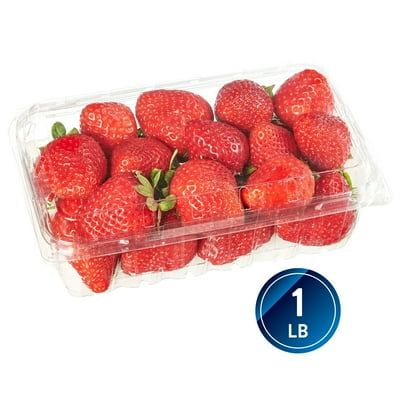
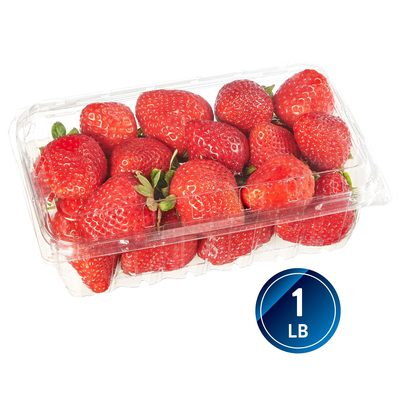
SL-20261105-THU: rebuild for Walmart #4111 store walk
Switch Thursday list to Walmart Supercenter #4111 with confirmed
prices, aisles and photos. Add A39 snacks, GF soy, Seventh
Generation detergent (packs, liquid alt pending), and pad choice
tiles. Remove stale H-E-B lines and MISSING store/time banner.

diff --git a/shopping/20261105-THU.html b/shopping/20261105-THU.html
@@ -1,7 +1,7 @@
 <!DOCTYPE html>
 <html lang="en"><head><meta charset="utf-8"><meta name="viewport" content="width=device-width,initial-scale=1,viewport-fit=cover">
 <meta name="theme-color" content="#1f3a5f">
-<title>SL-20261105-THU: Shopping, Thu 11/5: ground beef for Sat burgers (+ optional granola)</title>
+<title>SL-20261105-THU: Shopping, Thu 11/5: Walmart #4111 (ground beef, A39 snacks, detergent, pads)</title>
 <style>
 *{box-sizing:border-box}
 body{font-family:-apple-system,BlinkMacSystemFont,"Segoe UI",Roboto,Arial,sans-serif;margin:0;background:#f4f5f7;color:#222;padding-bottom:84px}
@@ -50,35 +50,130 @@ body.hidedone .item.done{display:none}body.hidedone section.alldone{display:none
 #warn{display:none;background:#fdecea;color:#a33;padding:8px 12px;border-radius:8px;margin:8px 4px;font-size:.88em}
 #saved{font-size:.8em;color:#2e7d32;min-height:1em;margin-top:6px}
 footer{font-size:.8em;color:#666;padding:16px;max-width:760px;margin:auto}
+
+.a39{display:inline-block;background:#fce4ec;color:#880e4f;border:1px solid #f48fb1;border-radius:6px;padding:0 6px;font-size:.78em;font-weight:600}
+.choices{display:grid;grid-template-columns:repeat(auto-fill,minmax(140px,1fr));gap:8px;margin-top:8px}
+.choice{background:#fafafa;border:1px solid #dde;border-radius:10px;padding:8px;text-align:center;font-size:.78em;line-height:1.3}
+.choice img{display:block;width:72px;height:72px;object-fit:contain;margin:0 auto 6px;background:#fff;border-radius:6px}
+.choice .cn{font-weight:600;color:#222;margin-bottom:2px}
+.choice .cp{color:#445}
+.choice a{font-size:.85em}
+.cl{list-style:none;margin:0;padding:0}
+.cl li{padding:6px 0;border-bottom:1px solid #eee;font-size:.92em;display:flex;gap:8px;align-items:flex-start}
+.cl li:last-child{border-bottom:0}
+.cl .ok{color:#2e7d32;font-weight:700;min-width:1.4em}.cl .pend{color:#a33;font-weight:700;min-width:1.4em}
+
 </style></head><body>
 <div class="donebanner" style="display:block;background:#d50000;color:#fff;font-weight:900;font-size:1.45em;line-height:1.3;text-align:center;border:6px solid #7f0000;border-radius:10px;padding:16px 12px;margin:10px;text-transform:uppercase;font-family:Arial,sans-serif">WHEN DONE: hit SUBMIT ("Send notes to Meal Planner") at the bottom, then email the bot inbox carterfambot@gmail.com and ATTACH A PHOTO OF THE RECEIPT.</div>
-<header><h1>Shopping, Thu 11/5: ground beef for Sat burgers (+ optional granola)</h1><div class="w">Store and time: MISSING (Carter to confirm; H-E-B #736 assumed for price).</div>
-<div class="w" style="margin-top:4px;opacity:.85;font-size:.85em">Every price is an ESTIMATE (est.) from past receipts, the price book or typical shelf prices; none was rechecked at H-E-B #736 today. Each line names its source. Before tax.</div>
-<div class="tot"><div>Meal: <b>$15.93</b></div><div>Staples: <b>$0.00</b></div><div>Flex: <b>$0.00</b></div><div>SL total: <b>$15.93</b> (2 items, incl. optional granola $3.48)</div></div><div class="w" style="margin-top:8px;font-size:.85em"><a href="#tools">Notes and send</a></div></header>
+<header><h1>Shopping, Thu 11/5: Walmart #4111 (ground beef, A39 snacks, detergent, pads)</h1><div class="w">Walmart Supercenter #4111, 26824 FM 1093 Rd, Richmond TX 77406. Thu 11/5, 11:30 AM CT.</div>
+<div class="w" style="margin-top:4px;opacity:.85;font-size:.85em">Prices and aisles marked "confirmed 11/5 walmart.com #4111" were checked live on walmart.com for store #4111 today. Bananas count and pads placeholder are ESTIMATES (est.). Before tax.</div>
+<div class="tot"><div>Meal: <b>$37.12</b></div><div>Staples: <b>$15.23</b></div><div>Flex: <b>$0.00</b></div><div>SL total: <b>$52.35</b> (10 items, incl. optional granola $2.67)</div></div><div class="w" style="margin-top:8px;font-size:.85em"><a href="#tools">Notes and send</a> · <a href="#checklist">Checklist</a></div></header>
 <main>
 <div id="warn">This browser is not letting the page save (private browsing?). Checks and notes will be lost when you close it.</div>
-<p class="sub"><span class="est">est.</span> estimated (plan price, not checked online for this store; trays ring up by weight).<br><span class="bud b-meal">meal</span> <span class="bud b-staples">staples</span> <span class="bud b-flex">flex</span> budget bucket for each line.</p><p class="sub">Tap the box when an item is in the cart. Checks and notes save on this phone and browser only. Use "Send notes to Meal Planner" at the bottom when you are done.</p><p class="sub">Nothing to buy Thursday. Carter moved everything for Tue 11/3 to Sat 11/7 to the Mon 11/2 H-E-B #736 list: shopping/20261102-MON.html.</p><p class="sub">Thu dinner (honey-garlic chicken) uses the 3 chicken breasts frozen Monday night (thaw Wed night).</p>
-
-<section class="grp"><h2><span class="ac">Meat Market + Aisle 6</span><span class="hint">ground beef: aisle not confirmed; granola: Aisle 6 B19</span><span class="n">2 items</span></h2><ul class="aisle"><li class="item" data-id="gbeef">
-<label class="chk"><input type="checkbox" aria-label="In cart: Ground beef 80/20, about 2.5 lb (Sat 11/7 burgers; fridge, no freezing needed)"></label>
-<div class="pic"><img alt="Ground beef 80/20, about 2.5 lb (Sat 11/7 burgers; fridge, no freezing needed)" data-srcs="../images/heb/635319.jpg"><div class="nopic"><span class="cam" aria-hidden="true"></span>No photo yet</div></div>
-<div class="body"><div class="t">Ground beef 80/20, about 2.5 lb (Sat 11/7 burgers; fridge, no freezing needed)</div>
-<div class="m"><span class="qty">Buy 1</span> <span class="bud b-meal">meal</span> <span class="ax">Aisle not confirmed</span></div>
-<div class="m"><span class="est">est.</span> $12.45 each &middot; line <b>$12.45</b> &middot; est. H-E-B #736 receipt 10/15 80/20 ground beef $4.98/lb x 2.5 lb (rings up by weight). Photo: H-E-B 80% lean ground chuck, heb.com 635319 &middot; moved here from Mon 11/2 list (Carter 11/2 3:28 PM CT: "so I don't have to freeze")</div>
-
+<p class="sub"><span class="est">est.</span> estimated (count or placeholder until confirmed).<br><span class="onl">confirmed 11/5 walmart.com #4111</span> looked up today for this store.<br><span class="bud b-meal">meal</span> <span class="bud b-staples">staples</span> <span class="bud b-flex">flex</span> budget bucket. <span class="a39">From A39</span> snack request (pears, bananas, strawberries, oranges, cheese sticks).</p>
+<p class="sub">Tap the box when an item is in the cart. Checks and notes save on this phone and browser only. Use "Send notes to Meal Planner" at the bottom when you are done.</p>
+<p class="sub">Store walk: Produce (AP3 → AP5 → AP8), grocery A13 → A18 → A28 → A31, Health G10 (pads), then household cleaning near J15 (detergent aisle not confirmed — grouped with dish soap).</p>
+<p class="sub">Sat 11/7 burgers need the ground chuck (fridge). Thu dinner (honey-garlic chicken) uses the chicken breasts already bought; move one pack to the fridge tonight if not already. GF: green-label Kikkoman GF soy for G11 and A39. No green chiles. No grilled cheese.</p>
+<p class="sub">Detergent: Seventh Generation dishwasher packs listed; if Carter meant hand dish soap, swap to the Free &amp; Clear liquid 19 oz ($3.53, J15) shown under that line. Pads: A39 picks at the store (choice tiles under G10).</p>
+<section class="grp"><h2><span class="ac">AP3 Produce</span><span class="hint">strawberries</span><span class="n">1 item</span></h2><ul class="aisle"><li class="item" data-id="straw">
+<label class="chk"><input type="checkbox" aria-label="In cart: Fresh Strawberries 1 lb"></label>
+<div class="pic has"><img alt="Fresh Strawberries 1 lb" src="../images/walmart/44391605.jpg" loading="lazy" width="80" height="80" data-srcs="../images/walmart/44391605.jpg"><a class="nopic" href="https://www.walmart.com/ip/44391605" target="_blank" rel="noopener"><span class="cam" aria-hidden="true"></span>No photo yet<br><u>View item</u></a></div>
+<div class="body"><div class="t">Fresh Strawberries 1 lb</div>
+<div class="m"><span class="qty">Buy 1</span> <span class="bud b-meal">meal</span> <span class="a39">From A39</span> <span class="ax">Aisle AP3 (confirmed 11/5)</span></div>
+<div class="m"><span class="onl">confirmed 11/5 walmart.com #4111</span> $2.37 each &middot; line <b>$2.37</b> &middot; walmart.com #4111 44391605</div>
+<div class="m lnk"><a href="https://www.walmart.com/ip/44391605" target="_blank" rel="noopener">walmart.com/ip/44391605</a></div>
 <details class="inote"><summary>Add note</summary><textarea rows="2" placeholder="e.g. got 18 ct instead of 60, or skipped, 3 at home"></textarea></details>
-</div></li><li class="item" data-id="granola">
-<label class="chk"><input type="checkbox" aria-label="In cart: OPTIONAL, IF NEEDED: H-E-B Classic granola, 14 oz (enough on hand until next week, Carter 11/2)"></label>
-<div class="pic"><img alt="OPTIONAL, IF NEEDED: H-E-B Classic granola, 14 oz (enough on hand until next week, Carter 11/2)" data-srcs="../images/heb/1194845.jpg"><div class="nopic"><span class="cam" aria-hidden="true"></span>No photo yet</div></div>
-<div class="body"><div class="t">OPTIONAL, IF NEEDED: H-E-B Classic granola, 14 oz (enough on hand until next week, Carter 11/2)</div>
-<div class="m"><span class="qty">Optional, if needed</span> <span class="bud b-meal">meal</span> <span class="ax">Aisle 6 B19 (confirmed 11/2)</span></div>
-<div class="m"><span class="onl">confirmed 11/2 heb.com #736</span> $3.48 each &middot; line <b>$3.48</b> &middot; heb.com 1194845</div>
+</div></li></ul></section><section class="grp"><h2><span class="ac">AP5 Produce</span><span class="hint">pears + oranges</span><span class="n">2 items</span></h2><ul class="aisle"><li class="item" data-id="pears">
+<label class="chk"><input type="checkbox" aria-label="In cart: Fresh Bartlett Pears 3 lb bag"></label>
+<div class="pic has"><img alt="Fresh Bartlett Pears 3 lb bag" src="../images/walmart/929297252.jpg" loading="lazy" width="80" height="80" data-srcs="../images/walmart/929297252.jpg"><a class="nopic" href="https://www.walmart.com/ip/929297252" target="_blank" rel="noopener"><span class="cam" aria-hidden="true"></span>No photo yet<br><u>View item</u></a></div>
+<div class="body"><div class="t">Fresh Bartlett Pears 3 lb bag</div>
+<div class="m"><span class="qty">Buy 1</span> <span class="bud b-meal">meal</span> <span class="a39">From A39</span> <span class="ax">Aisle AP5 (confirmed 11/5)</span></div>
+<div class="m"><span class="onl">confirmed 11/5 walmart.com #4111</span> $5.33 each &middot; line <b>$5.33</b> &middot; walmart.com #4111 929297252</div>
+<div class="m lnk"><a href="https://www.walmart.com/ip/929297252" target="_blank" rel="noopener">walmart.com/ip/929297252</a></div>
+<details class="inote"><summary>Add note</summary><textarea rows="2" placeholder="e.g. got 18 ct instead of 60, or skipped, 3 at home"></textarea></details>
+</div></li><li class="item" data-id="oranges">
+<label class="chk"><input type="checkbox" aria-label="In cart: Navel oranges, 2"></label>
+<div class="pic has"><img alt="Navel oranges, 2" src="../images/walmart/162577028.jpg" loading="lazy" width="80" height="80" data-srcs="../images/walmart/162577028.jpg"><a class="nopic" href="https://www.walmart.com/ip/162577028" target="_blank" rel="noopener"><span class="cam" aria-hidden="true"></span>No photo yet<br><u>View item</u></a></div>
+<div class="body"><div class="t">Navel oranges, 2</div>
+<div class="m"><span class="qty">Buy 2</span> <span class="bud b-meal">meal</span> <span class="a39">From A39</span> <span class="ax">Aisle AP5 (confirmed 11/5)</span></div>
+<div class="m"><span class="onl">confirmed 11/5 walmart.com #4111</span> $0.88 each &middot; line <b>$1.76</b> &middot; walmart.com #4111 162577028 ($0.88 each)</div>
+<div class="m lnk"><a href="https://www.walmart.com/ip/162577028" target="_blank" rel="noopener">walmart.com/ip/162577028</a></div>
+<details class="inote"><summary>Add note</summary><textarea rows="2" placeholder="e.g. got 18 ct instead of 60, or skipped, 3 at home"></textarea></details>
+</div></li></ul></section><section class="grp"><h2><span class="ac">AP8 Produce</span><span class="hint">bananas</span><span class="n">1 item</span></h2><ul class="aisle"><li class="item" data-id="bananas">
+<label class="chk"><input type="checkbox" aria-label="In cart: Bananas, about 6"></label>
+<div class="pic has"><img alt="Bananas, about 6" src="../images/walmart/44390948.jpg" loading="lazy" width="80" height="80" data-srcs="../images/walmart/44390948.jpg"><a class="nopic" href="https://www.walmart.com/ip/44390948" target="_blank" rel="noopener"><span class="cam" aria-hidden="true"></span>No photo yet<br><u>View item</u></a></div>
+<div class="body"><div class="t">Bananas, about 6</div>
+<div class="m"><span class="qty">Buy ~6 (count est.)</span> <span class="bud b-meal">meal</span> <span class="a39">From A39</span> <span class="ax">Aisle AP8 (confirmed 11/5)</span></div>
+<div class="m"><span class="est">est.</span> $0.19 each &middot; line <b>$1.14</b> &middot; walmart.com #4111 44390948 ($0.19 each); count is est.</div>
+<div class="m lnk"><a href="https://www.walmart.com/ip/44390948" target="_blank" rel="noopener">walmart.com/ip/44390948</a></div>
+<details class="inote"><summary>Add note</summary><textarea rows="2" placeholder="e.g. got 18 ct instead of 60, or skipped, 3 at home"></textarea></details>
+</div></li></ul></section><section class="grp"><h2><span class="ac">Aisle A13</span><span class="hint">soy sauce</span><span class="n">1 item</span></h2><ul class="aisle"><li class="item" data-id="soy">
+<label class="chk"><input type="checkbox" aria-label="In cart: Kikkoman Gluten-Free Soy Sauce 10 oz (green-label GF bottle)"></label>
+<div class="pic has"><img alt="Kikkoman Gluten-Free Soy Sauce 10 oz (green-label GF bottle)" src="../images/walmart/34276996.jpg" loading="lazy" width="80" height="80" data-srcs="../images/walmart/34276996.jpg"><a class="nopic" href="https://www.walmart.com/ip/34276996" target="_blank" rel="noopener"><span class="cam" aria-hidden="true"></span>No photo yet<br><u>View item</u></a></div>
+<div class="body"><div class="t">Kikkoman Gluten-Free Soy Sauce 10 oz (green-label GF bottle)</div>
+<div class="m"><span class="qty">Buy 1</span> <span class="bud b-meal">meal</span> <span class="ax">Aisle A13 (confirmed 11/5)</span></div>
+<div class="m"><span class="onl">confirmed 11/5 walmart.com #4111</span> $4.08 each &middot; line <b>$4.08</b> &middot; walmart.com #4111 34276996. Get the green-label GF bottle, NOT Great Value (not labeled GF).</div>
+<div class="look">GF for G11 and A39. Do not buy Great Value soy.</div><div class="m lnk"><a href="https://www.walmart.com/ip/34276996" target="_blank" rel="noopener">walmart.com/ip/34276996</a></div>
+<details class="inote"><summary>Add note</summary><textarea rows="2" placeholder="e.g. got 18 ct instead of 60, or skipped, 3 at home"></textarea></details>
+</div></li></ul></section><section class="grp"><h2><span class="ac">Aisle A18</span><span class="hint">granola (optional)</span><span class="n">1 item</span></h2><ul class="aisle"><li class="item" data-id="granola">
+<label class="chk"><input type="checkbox" aria-label="In cart: OPTIONAL, IF NEEDED: Great Value Oats &amp; Honey Granola 11 oz"></label>
+<div class="pic has"><img alt="OPTIONAL, IF NEEDED: Great Value Oats &amp; Honey Granola 11 oz" src="../images/walmart/202344615.jpg" loading="lazy" width="80" height="80" data-srcs="../images/walmart/202344615.jpg"><a class="nopic" href="https://www.walmart.com/ip/202344615" target="_blank" rel="noopener"><span class="cam" aria-hidden="true"></span>No photo yet<br><u>View item</u></a></div>
+<div class="body"><div class="t">OPTIONAL, IF NEEDED: Great Value Oats &amp; Honey Granola 11 oz</div>
+<div class="m"><span class="qty">Optional, if needed</span> <span class="bud b-meal">meal</span> <span class="ax">Aisle A18 (confirmed 11/5)</span></div>
+<div class="m"><span class="onl">confirmed 11/5 walmart.com #4111</span> $2.67 each &middot; line <b>$2.67</b> &middot; walmart.com #4111 202344615. Only if needed (enough on hand until next week).</div>
+<div class="m lnk"><a href="https://www.walmart.com/ip/202344615" target="_blank" rel="noopener">walmart.com/ip/202344615</a></div>
+<details class="inote"><summary>Add note</summary><textarea rows="2" placeholder="e.g. got 18 ct instead of 60, or skipped, 3 at home"></textarea></details>
+</div></li></ul></section><section class="grp"><h2><span class="ac">Aisle A28</span><span class="hint">cheese sticks</span><span class="n">1 item</span></h2><ul class="aisle"><li class="item" data-id="cheese">
+<label class="chk"><input type="checkbox" aria-label="In cart: Great Value Mozzarella String Cheese, 24 ct (24 oz)"></label>
+<div class="pic has"><img alt="Great Value Mozzarella String Cheese, 24 ct (24 oz)" src="../images/walmart/357809532.jpg" loading="lazy" width="80" height="80" data-srcs="../images/walmart/357809532.jpg"><a class="nopic" href="https://www.walmart.com/ip/357809532" target="_blank" rel="noopener"><span class="cam" aria-hidden="true"></span>No photo yet<br><u>View item</u></a></div>
+<div class="body"><div class="t">Great Value Mozzarella String Cheese, 24 ct (24 oz)</div>
+<div class="m"><span class="qty">Buy 1</span> <span class="bud b-meal">meal</span> <span class="a39">From A39</span> <span class="ax">Aisle A28 (confirmed 11/5)</span></div>
+<div class="m"><span class="onl">confirmed 11/5 walmart.com #4111</span> $6.34 each &middot; line <b>$6.34</b> &middot; walmart.com #4111 357809532</div>
+<div class="m lnk"><a href="https://www.walmart.com/ip/357809532" target="_blank" rel="noopener">walmart.com/ip/357809532</a></div>
+<details class="inote"><summary>Add note</summary><textarea rows="2" placeholder="e.g. got 18 ct instead of 60, or skipped, 3 at home"></textarea></details>
+</div></li></ul></section><section class="grp"><h2><span class="ac">Aisle A31</span><span class="hint">ground beef</span><span class="n">1 item</span></h2><ul class="aisle"><li class="item" data-id="beef">
+<label class="chk"><input type="checkbox" aria-label="In cart: 80% Lean / 20% Fat Ground Beef Chuck, 2.25 lb tray (Sat 11/7 burgers)"></label>
+<div class="pic has"><img alt="80% Lean / 20% Fat Ground Beef Chuck, 2.25 lb tray (Sat 11/7 burgers)" src="../images/walmart/959024059.jpg" loading="lazy" width="80" height="80" data-srcs="../images/walmart/959024059.jpg"><a class="nopic" href="https://www.walmart.com/ip/959024059" target="_blank" rel="noopener"><span class="cam" aria-hidden="true"></span>No photo yet<br><u>View item</u></a></div>
+<div class="body"><div class="t">80% Lean / 20% Fat Ground Beef Chuck, 2.25 lb tray (Sat 11/7 burgers)</div>
+<div class="m"><span class="qty">Buy 1</span> <span class="bud b-meal">meal</span> <span class="ax">Aisle A31 (confirmed 11/5)</span></div>
+<div class="m"><span class="onl">confirmed 11/5 walmart.com #4111</span> <span class="rb">Rollback</span> $13.43 each &middot; line <b>$13.43</b> &middot; walmart.com #4111 959024059 Rollback. Carter's plan was ~2.5 lb; a 3 lb roll is $16.43 (15136794) if you want more.</div>
+<div class="look">For Saturday burgers. Fridge, no freezing needed.</div><div class="m lnk"><a href="https://www.walmart.com/ip/959024059" target="_blank" rel="noopener">walmart.com/ip/959024059</a></div>
+<details class="inote"><summary>Add note</summary><textarea rows="2" placeholder="e.g. got 18 ct instead of 60, or skipped, 3 at home"></textarea></details>
+</div></li></ul></section><section class="grp"><h2><span class="ac">Aisle G10</span><span class="hint">feminine pads (A39 choice)</span><span class="n">1 item</span></h2><ul class="aisle"><li class="item" data-id="pads">
+<label class="chk"><input type="checkbox" aria-label="In cart: Feminine pads, A39&#x27;s choice (she uses a specific kind — pick one below)"></label>
+<div class="pic has"><img alt="Feminine pads, A39&#x27;s choice (she uses a specific kind — pick one below)" src="../images/walmart/2304198.jpg" loading="lazy" width="80" height="80" data-srcs="../images/walmart/2304198.jpg"><a class="nopic" href="https://www.walmart.com/ip/2304198" target="_blank" rel="noopener"><span class="cam" aria-hidden="true"></span>No photo yet<br><u>View item</u></a></div>
+<div class="body"><div class="t">Feminine pads, A39&#x27;s choice (she uses a specific kind — pick one below)</div>
+<div class="m"><span class="qty">Buy 1 (A39 picks)</span> <span class="bud b-staples">staples</span> <span class="ax">Aisle G10 (confirmed 11/5)</span></div>
+<div class="m"><span class="est">est.</span> $7.24 each &middot; line <b>$7.24</b> &middot; placeholder est. $7.24 (Always Ultra Thin Size 2 Long Super 40 ct). A39 uses a specific kind; choice tiles below. Ask her or text if unsure.</div>
+<div class="look">A39's choice. Total uses $7.24 est. until she picks.</div><div class="choices"><div class="choice"><img src="../images/walmart/2304198.jpg" alt="Always Ultra Thin, no wings, Size 2 Long Super, 40 ct" width="72" height="72" loading="lazy"><div class="cn">Always Ultra Thin, no wings, Size 2 Long Super, 40 ct</div><div class="cp">$7.24</div><a href="https://www.walmart.com/ip/2304198" target="_blank" rel="noopener">walmart.com/ip/2304198</a></div><div class="choice"><img src="../images/walmart/17909353050.jpg" alt="Always Ultra Thin, wings, Size 5 Overnight, 60 ct" width="72" height="72" loading="lazy"><div class="cn">Always Ultra Thin, wings, Size 5 Overnight, 60 ct</div><div class="cp">$14.47</div><a href="https://www.walmart.com/ip/17909353050" target="_blank" rel="noopener">walmart.com/ip/17909353050</a></div><div class="choice"><img src="../images/walmart/43826376.jpg" alt="Always Maxi, wings, Size 5, 36 ct" width="72" height="72" loading="lazy"><div class="cn">Always Maxi, wings, Size 5, 36 ct</div><div class="cp">$10.97</div><a href="https://www.walmart.com/ip/43826376" target="_blank" rel="noopener">walmart.com/ip/43826376</a></div><div class="choice"><img src="../images/walmart/329282492.jpg" alt="Equate Maxi, wings, Long Super, 42 ct" width="72" height="72" loading="lazy"><div class="cn">Equate Maxi, wings, Long Super, 42 ct</div><div class="cp">$5.38</div><a href="https://www.walmart.com/ip/329282492" target="_blank" rel="noopener">walmart.com/ip/329282492</a></div></div><div class="m lnk"><a href="https://www.walmart.com/ip/2304198" target="_blank" rel="noopener">walmart.com/ip/2304198</a></div>
+<details class="inote"><summary>Add note</summary><textarea rows="2" placeholder="e.g. got 18 ct instead of 60, or skipped, 3 at home"></textarea></details>
+</div></li></ul></section><section class="grp"><h2><span class="ac">Household cleaning (near J15)</span><span class="hint">detergent — aisle not confirmed</span><span class="n">1 item</span></h2><ul class="aisle"><li class="item" data-id="detergent">
+<label class="chk"><input type="checkbox" aria-label="In cart: Seventh Generation Dishwasher Detergent Packs, Free &amp; Clear, 20 ct"></label>
+<div class="pic has"><img alt="Seventh Generation Dishwasher Detergent Packs, Free &amp; Clear, 20 ct" src="../images/walmart/1303579342.jpg" loading="lazy" width="80" height="80" data-srcs="../images/walmart/1303579342.jpg"><a class="nopic" href="https://www.walmart.com/ip/1303579342" target="_blank" rel="noopener"><span class="cam" aria-hidden="true"></span>No photo yet<br><u>View item</u></a></div>
+<div class="body"><div class="t">Seventh Generation Dishwasher Detergent Packs, Free &amp; Clear, 20 ct</div>
+<div class="m"><span class="qty">Buy 1</span> <span class="bud b-staples">staples</span> <span class="ax">Aisle not confirmed (group with dish soap near J15)</span></div>
+<div class="m"><span class="onl">confirmed 11/5 walmart.com #4111</span> $7.99 each &middot; line <b>$7.99</b> &middot; walmart.com #4111 1303579342. Aisle not confirmed; grouped in household cleaning next to dish soap (J15).</div>
+<div class="look">Pending Carter: packs or liquid? Alternative: Seventh Generation Free &amp; Clear Dish Soap 19 oz, $3.53, J15, <a href="https://www.walmart.com/ip/131508635" target="_blank" rel="noopener">walmart.com/ip/131508635</a>. Photo of the liquid is saved next to this line.</div><div class="m lnk"><a href="https://www.walmart.com/ip/1303579342" target="_blank" rel="noopener">walmart.com/ip/1303579342</a><div class="m" style="margin-top:6px;display:flex;gap:10px;align-items:center"><img src="../images/walmart/131508635.jpg" alt="Seventh Generation Free &amp; Clear Dish Soap 19 oz" width="56" height="56" style="object-fit:contain;border-radius:6px;background:#fff;border:1px solid #dde" loading="lazy"><span class="ax">Alt photo: liquid dish soap 19 oz, $3.53, aisle J15 (confirmed).</span></div>
 <details class="inote"><summary>Add note</summary><textarea rows="2" placeholder="e.g. got 18 ct instead of 60, or skipped, 3 at home"></textarea></details>
 </div></li></ul></section>
-
+<section id="checklist" class="card"><h3>Quality checklist (item 13)</h3>
+<ul class="cl">
+<li><span class="ok">OK</span> Pictures: every line has a Walmart #4111 product photo in images/walmart/.</li>
+<li><span class="ok">OK</span> Correct store: Walmart Supercenter #4111, 26824 FM 1093 Rd, Richmond TX 77406.</li>
+<li><span class="ok">OK</span> Aisles: confirmed for this store, or marked "not confirmed" (detergent).</li>
+<li><span class="ok">OK</span> Prices: confirmed today or marked est. (bananas count, pads placeholder).</li>
+<li><span class="ok">OK</span> Totals: meals $37.12 + staples $15.23 = $52.35 (computed with code).</li>
+<li><span class="ok">OK</span> Banners: red SUBMIT / receipt banners at top and bottom.</li>
+<li><span class="ok">OK</span> Links: same invite URL shopping/20261105-THU.html (updated in place).</li>
+<li><span class="ok">OK</span> Menu rules: no pork; GF soy noted; A39 snacks tagged; no green chiles.</li>
+<li><span class="ok">OK</span> Store-library rule: every photo and price is Walmart #4111 (no H-E-B photos or prices).</li>
+<li><span class="pend">PENDING</span> Price book updated: Current/History push after this trip's receipt is filed.</li>
+<li><span class="pend">PENDING</span> Inventory updated: receipt items added, served meals subtracted (after the trip).</li>
+</ul>
+</section>
 <section id="tools" class="card"><h3>Shopping notes</h3>
-<div class="m">Anything for Meal Planner: swaps, out of stock, what is still at home. Item notes are under each item.</div>
-<textarea id="general" rows="4" placeholder="e.g. eggs: got 18 ct, 60 ct was out. Skipped cucumbers, 3 still at home." style="margin-top:8px"></textarea>
+<div class="m">Anything for Meal Planner: swaps, out of stock, what is still at home. Item notes are under each item. Tell us which pad A39 picked and whether detergent was packs or liquid.</div>
+<textarea id="general" rows="4" placeholder="e.g. got Always Size 5 Overnight; bought liquid dish soap instead of packs; skipped granola." style="margin-top:8px"></textarea>
 <div id="saved"></div>
 <div class="btns"><a id="mail" class="btn pri" href="mailto:carterfambot@gmail.com">Send notes to Meal Planner</a>
 <button id="copy" class="btn" type="button">Copy notes</button>
@@ -89,10 +184,10 @@ footer{font-size:.8em;color:#666;padding:16px;max-width:760px;margin:auto}
 
 </main>
 <div class="donebanner" style="display:block;background:#d50000;color:#fff;font-weight:900;font-size:1.45em;line-height:1.3;text-align:center;border:6px solid #7f0000;border-radius:10px;padding:16px 12px;margin:10px;text-transform:uppercase;font-family:Arial,sans-serif">WHEN DONE: hit SUBMIT ("Send notes to Meal Planner") at the bottom, then email the bot inbox carterfambot@gmail.com and ATTACH A PHOTO OF THE RECEIPT.</div>
-<footer>Thu 11/5 trip (ground beef moved from Mon 11/2). Pictures: 2 of 2 lines have a saved photo from the picture library (images/heb/ in the repo). A photo saved there as &lt;item number&gt;.jpg shows up automatically; until then the line shows a placeholder with the item link.</footer>
-<div id="bar"><div class="in"><div class="st"><span class="cnt" id="cnt">0 of 2 in cart</span><span class="sum" id="sum">$0.00 of $15.93</span></div>
+<footer>Thu 11/5 Walmart #4111 trip. Pictures: 10 of 10 lines (plus 4 pad choice tiles and 1 detergent-alt photo) saved under images/walmart/ in the repo. Store walk by aisle. Totals computed with code.</footer>
+<div id="bar"><div class="in"><div class="st"><span class="cnt" id="cnt">0 of 10 in cart</span><span class="sum" id="sum">$0.00 of $52.35</span></div>
 <button id="hide" class="btn" type="button">Hide in cart</button><a class="btn" href="#tools">Notes</a></div></div>
-<script id="listdata" type="application/json">{"list_id": "SL-20261105-THU", "title": "Shopping, Thu 11/5: ground beef for Sat burgers (+ optional granola)", "where": "MISSING (Carter to confirm)", "when": "Thu 11/5, time MISSING", "notes_email": "carterfambot@gmail.com", "email_subject": "Shopping notes SL-20261105-THU", "items": [{"id": "gbeef", "name": "Ground beef 80/20, about 2.5 lb (Sat 11/7 burgers; fridge, no freezing needed)", "qty": "Buy 1", "line": 12.45, "aisle_text": "Aisle not confirmed"}, {"id": "granola", "name": "OPTIONAL, IF NEEDED: H-E-B Classic granola, 14 oz (enough on hand until next week, Carter 11/2)", "qty": "Optional, if needed", "line": 3.48, "aisle_text": "Aisle 6 B19 (confirmed 11/2)"}]}</script>
+<script id="listdata" type="application/json">{"list_id": "SL-20261105-THU","title": "Shopping, Thu 11/5: Walmart #4111 (ground beef, A39 snacks, detergent, pads)","where": "Walmart Supercenter #4111, 26824 FM 1093 Rd, Richmond TX 77406","when": "Thu 11/5, 11:30 AM CT","notes_email": "carterfambot@gmail.com","email_subject": "Shopping notes SL-20261105-THU","items": [{"id": "straw","name": "Fresh Strawberries 1 lb","qty": "Buy 1","line": 2.37,"aisle_text": "Aisle AP3 (confirmed 11/5)"},{"id": "pears","name": "Fresh Bartlett Pears 3 lb bag","qty": "Buy 1","line": 5.33,"aisle_text": "Aisle AP5 (confirmed 11/5)"},{"id": "oranges","name": "Navel oranges, 2","qty": "Buy 2","line": 1.76,"aisle_text": "Aisle AP5 (confirmed 11/5)"},{"id": "bananas","name": "Bananas, about 6","qty": "Buy ~6 (count est.)","line": 1.14,"aisle_text": "Aisle AP8 (confirmed 11/5)"},{"id": "soy","name": "Kikkoman Gluten-Free Soy Sauce 10 oz (green-label GF bottle)","qty": "Buy 1","line": 4.08,"aisle_text": "Aisle A13 (confirmed 11/5)"},{"id": "granola","name": "OPTIONAL, IF NEEDED: Great Value Oats & Honey Granola 11 oz","qty": "Optional, if needed","line": 2.67,"aisle_text": "Aisle A18 (confirmed 11/5)"},{"id": "cheese","name": "Great Value Mozzarella String Cheese, 24 ct (24 oz)","qty": "Buy 1","line": 6.34,"aisle_text": "Aisle A28 (confirmed 11/5)"},{"id": "beef","name": "80% Lean / 20% Fat Ground Beef Chuck, 2.25 lb tray (Sat 11/7 burgers)","qty": "Buy 1","line": 13.43,"aisle_text": "Aisle A31 (confirmed 11/5)"},{"id": "pads","name": "Feminine pads, A39's choice (she uses a specific kind \u2014 pick one below)","qty": "Buy 1 (A39 picks)","line": 7.24,"aisle_text": "Aisle G10 (confirmed 11/5)"},{"id": "detergent","name": "Seventh Generation Dishwasher Detergent Packs, Free & Clear, 20 ct","qty": "Buy 1","line": 7.99,"aisle_text": "Aisle not confirmed (group with dish soap near J15)"}]}</script>
 <script>
 (function(){
 'use strict';
